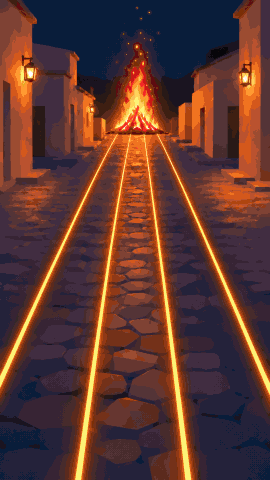
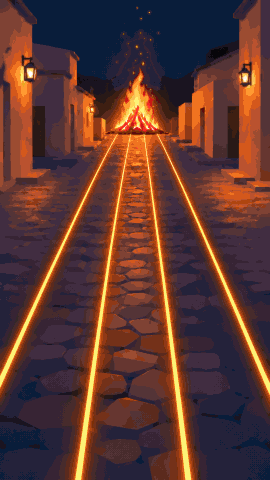
Pixel look, round 2: pixel step buttons, pixel hit bursts, quieter lanes, cheaper street
The step buttons are drawn on the lens grid as carved steps that sink when pressed, with
pixel footprints. Hits, misses and rope sparks are opaque pixel shapes (flash, stamp,
shock ring, square embers). The cobbles in the lanes are quieter, the bonfire's red haze
is gone, the palette has more reds and blues for the bell straps, the figures bob deeper,
and the street renders at one texel per lens cell. Settings offers Pixel or Painted.

Claude-Session: https://claude.ai/code/session_01NU82NZQo49UMwoRckZz3mp

diff --git a/tools/art/pixel3d/bake_street.py b/tools/art/pixel3d/bake_street.py
@@ -29,6 +29,16 @@ def main():
     keep = cv2.GaussianBlur(keep, (0, 0), 12)[..., None]
     soft = cv2.bilateralFilter(np.ascontiguousarray(rgb), 7, 30, 5)
     mixed = (soft * keep + flat * (1.0 - keep)).astype(np.uint8)
+    # the red haze the picture puts above the flames reads as a solid red column once it is pixels:
+    # let the night sky show through it (only dim, red, above the flames)
+    hz = mixed.astype(np.float32)
+    lum = hz.mean(-1)
+    red = (hz[..., 0] > hz[..., 1] * 2.2) & (lum < 95)
+    rows = np.clip((345.0 - np.arange(hz.shape[0])[:, None]) / 50.0, 0.0, 1.0)
+    m = red.astype(np.float32) * rows
+    m = cv2.GaussianBlur(m, (0, 0), 3)[..., None]
+    sky = np.array([28, 26, 52], np.float32)
+    mixed = (hz * (1 - 0.8 * m) + sky * 0.8 * m).astype(np.uint8)
     small = px.shrink(mixed, size)
     # dither only the dark, plain sky (not the fire's glow): bands there would show
     m = px.gradient_mask(small)

diff --git a/tools/art/pixel3d/palette.py b/tools/art/pixel3d/palette.py
@@ -25,8 +25,8 @@ FIXED = [
     "#9ccaff", "#2f78e0", "#163a94", "#5aa8ff",                       # step blue
     "#a8ffc8", "#26b862", "#0e6632",                                  # heal green
     "#ffe9a8", "#e8a820", "#7e5006",                                  # hold gold
-    "#ff9c8c", "#c8282a", "#5e0c10",                                  # bell up red
-    "#a4b6ff", "#3450c0", "#141e5e",                                  # bell down indigo
+    "#ff9c8c", "#e06a5c", "#d84848", "#c8282a", "#8e1a1e", "#5e0c10",  # bell up red
+    "#a4b6ff", "#6c80e8", "#4e64d4", "#3450c0", "#24348a", "#141e5e",  # bell down indigo
     "#f2c46a", "#b0701e", "#4e2a0a",                                  # bronze
     "#ff9a32", "#ffd27a", "#ffd35a", "#7a2e06",                       # hud edge, gold ink
     "#8a2fd0", "#d070ff",                                             # top unison purple
